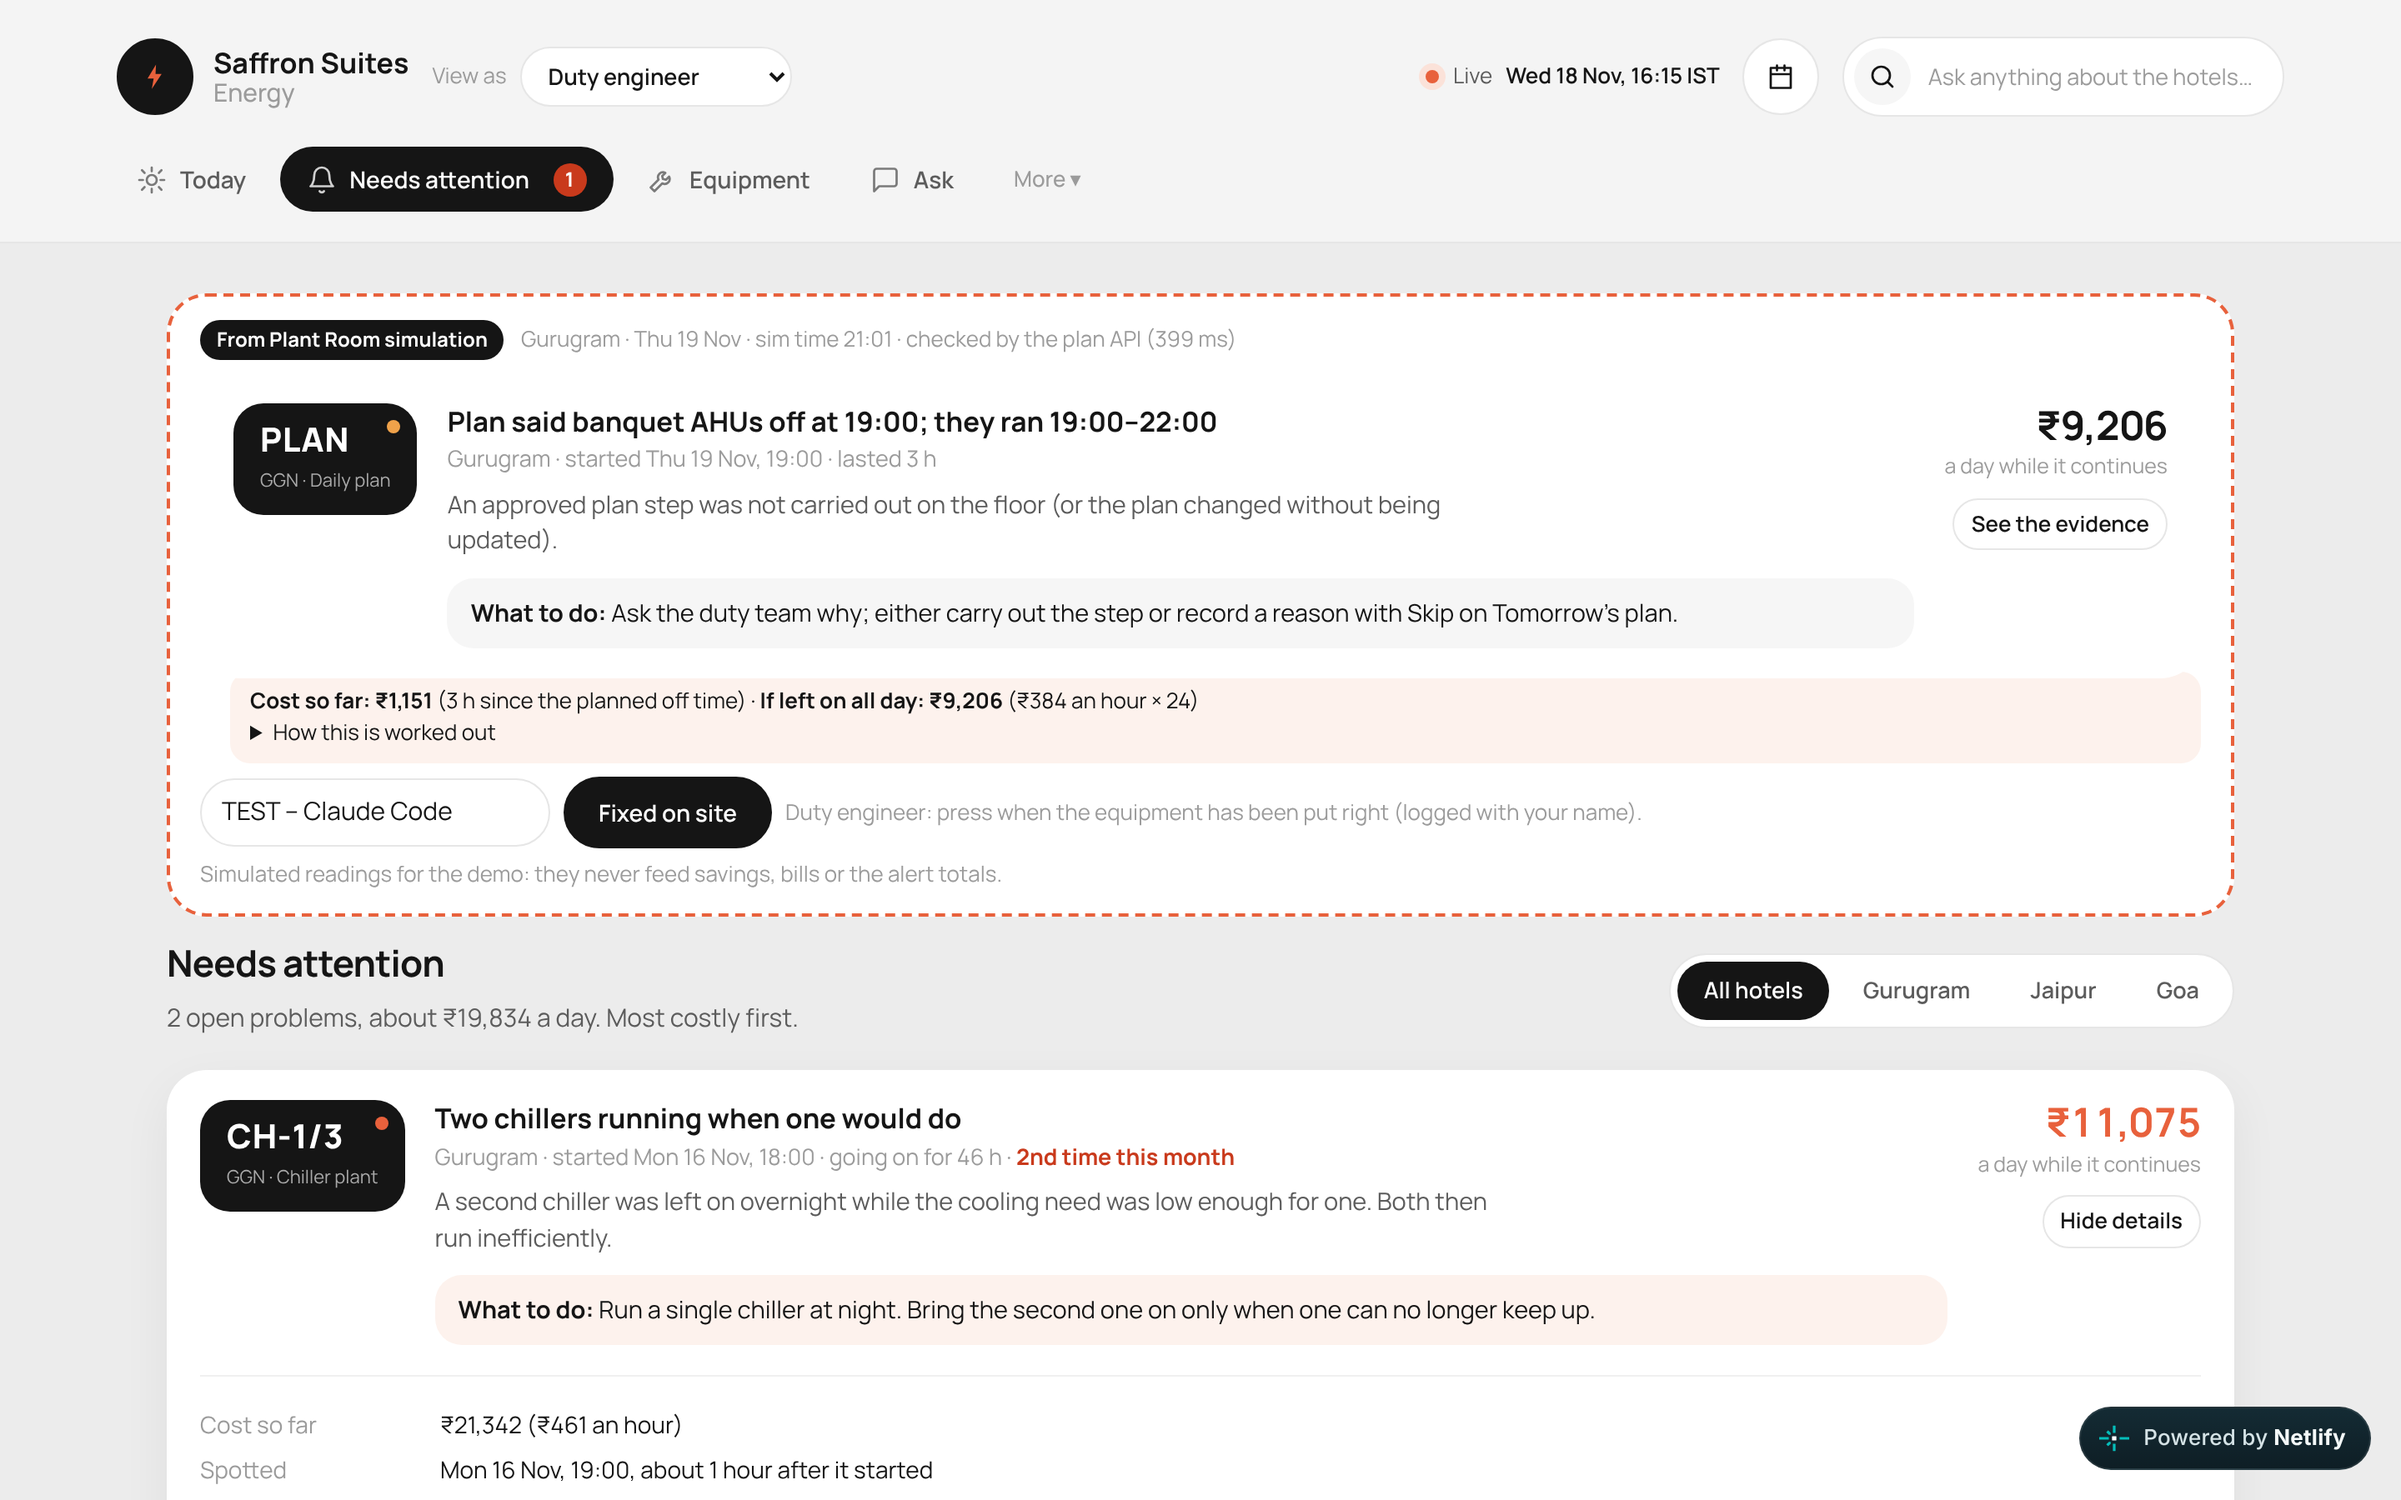
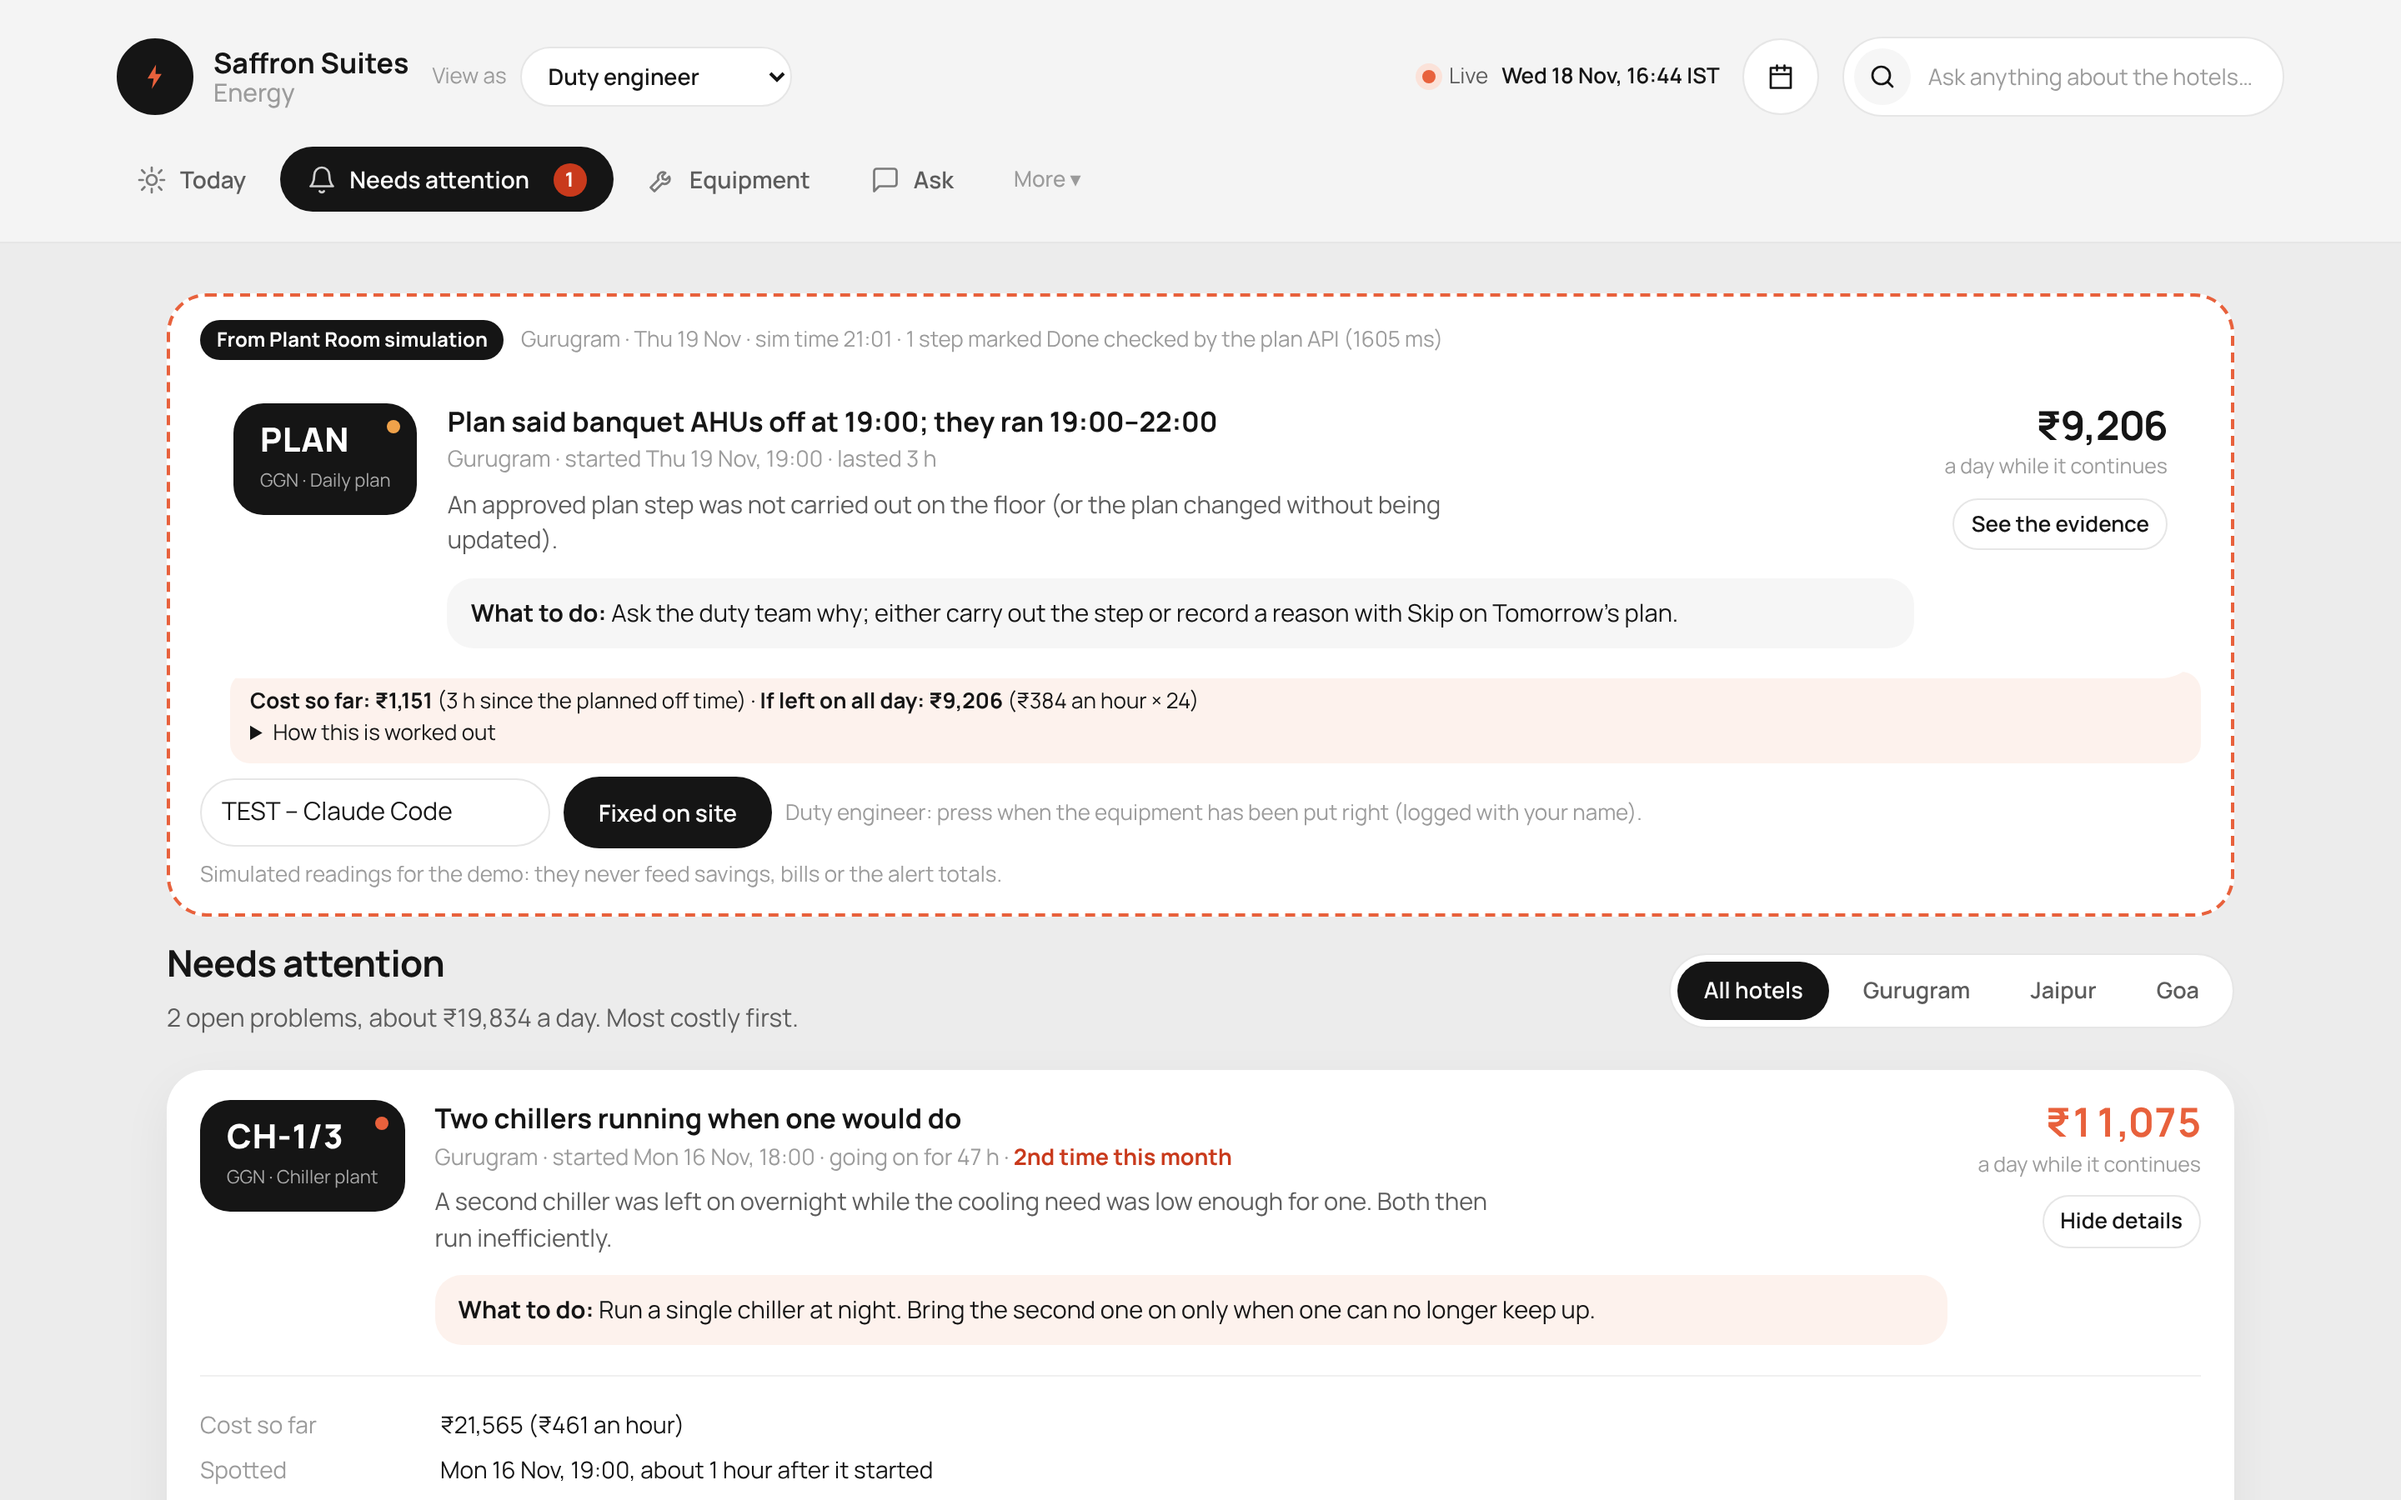
Plant Room alert card: say 'nothing to check yet' (and how to fix it) when no step is marked Done
Before, a plan with approved but not-done steps showed 'checked in the browser (plan API unavailable) · No problems', which read as a
silent failure. Now: 'nothing checked yet' + which step to mark Done; once steps are Done the header says how many were checked and how.

Claude-Session: https://claude.ai/code/session_0137vY3wCTXEnokpydvZZARK

diff --git a/web/src/plant/client.ts b/web/src/plant/client.ts
@@ -62,7 +62,7 @@ export async function postPlant(body: Record<string, unknown>): Promise<{ view: 
 }
 
 // ---- the check: real API first, browser rules as the fallback ----
-export interface PlantCheck { alerts: Alert[]; path: "api" | "local"; ms: number; why?: string; asOf: string }
+export interface PlantCheck { alerts: Alert[]; path: "api" | "local" | "none"; ms: number; why?: string; asOf: string; checked?: number; approved?: number }
 const CHECK_TIMEOUT_MS = 8000;
 const dayCache: Record<string, PlanDay> = {};
 async function planDay(date: string): Promise<PlanDay> {
@@ -78,7 +78,8 @@ export async function checkPlant(v: PlantView, apiBase = "/api"): Promise<PlantC
   // the simulation checks only the steps the duty engineer has marked Done (what the floor committed to); an approved step not yet done
   // stays on habit in the simulator and is not an alert here (real plans are checked against the real meters on Today, unchanged)
   const actions = v.plan.steps.filter((a) => v.plan!.duty?.[a.id]?.event === "done");
-  if (!actions.length) return { alerts: [], path: "local", ms: 0, why: "no step marked done yet", asOf };
+  const approved = v.plan.steps.length;
+  if (!actions.length) return { alerts: [], path: "none", ms: 0, why: "no step marked done yet", asOf, checked: 0, approved };
   const t0 = performance.now();
   let why = "";
   const ctrl = new AbortController();
@@ -90,7 +91,7 @@ export async function checkPlant(v: PlantView, apiBase = "/api"): Promise<PlantC
     if (j && j.meters_source === "simulated") {
       const ms = Math.round(performance.now() - t0);
       console.info(`[plant room] /check path: plan API at ${apiBase} (${ms} ms), ${j.alerts.length} alert(s)`);
-      return { alerts: j.alerts as Alert[], path: "api", ms, asOf };
+      return { alerts: j.alerts as Alert[], path: "api", ms, asOf, checked: actions.length, approved };
     }
     why = j ? "the API answered without checking the simulated readings (older build: redeploy it)" : `the API answered ${res.status}`;
   } catch (e) {
@@ -100,7 +101,7 @@ export async function checkPlant(v: PlantView, apiBase = "/api"): Promise<PlantC
   const local = checkDay(v.date, actions, r.recent, asOf, day.ref, day.tariff, day.pf);
   const ms = Math.round(performance.now() - t0);
   console.info(`[plant room] /check path: local rules in the browser (${why}; ${ms} ms), ${local.alerts.length} alert(s)`);
-  return { alerts: local.alerts, path: "local", ms, why, asOf };
+  return { alerts: local.alerts, path: "local", ms, why, asOf, checked: actions.length, approved };
 }
 
 const addDay = (d: string, k: number) => { const x = new Date(`${d}T00:00:00Z`); x.setUTCDate(x.getUTCDate() + k); return x.toISOString().slice(0, 10); };

diff --git a/web/src/plant/PlantAlerts.tsx b/web/src/plant/PlantAlerts.tsx
@@ -30,9 +30,16 @@ export default function PlantAlerts() {
     <section className="card plant-link" data-testid="plant-alerts" aria-live="polite">
       <div className="plant-link-head">
         <span className="plant-tag">From Plant Room simulation</span>
-        <span className="small muted">Gurugram · {label(view.date)}{sim ? ` · sim time ${sim}` : ""} · checked {check ? (check.path === "api" ? `by the plan API (${check.ms} ms)` : "in the browser (plan API unavailable)") : "…"}</span>
+        <span className="small muted">Gurugram · {label(view.date)}{sim ? ` · sim time ${sim}` : ""} · {!check ? "checking…" : check.path === "none" ? "nothing checked yet"
+          : `${check.checked} step${check.checked === 1 ? "" : "s"} marked Done checked ${check.path === "api" ? `by the plan API (${check.ms} ms)` : "in the browser (plan API unavailable)"}`}</span>
       </div>
-      {check && check.alerts.length === 0 && <p className="small" style={{ margin: "6px 0 0" }} data-testid="plant-no-alert">No problems in the simulated readings: the plant follows the approved plan.</p>}
+      {check && check.path === "none" && (
+        <p className="small" style={{ margin: "6px 0 0" }} data-testid="plant-nothing-done">
+          <strong>Nothing to check yet:</strong> {check.approved ? `${check.approved} approved step${check.approved === 1 ? " is" : "s are"} not marked Done.` : "the plan has no approved steps."}{" "}
+          The simulator checks only steps the duty engineer has marked Done (Tomorrow's plan → "Duty engineer: mark approved steps done"). Mark the banquet AHU step done, then inject Fault 1 on /plant.
+        </p>
+      )}
+      {check && check.path !== "none" && check.alerts.length === 0 && <p className="small" style={{ margin: "6px 0 0" }} data-testid="plant-no-alert">No problems in the simulated readings: the steps marked Done are being followed.</p>}
       {check?.alerts.map((a) => (
         <div key={a.id} className="plant-alert" data-testid="plant-alert">
           {/* ₹ a day while it continues = the check's ₹ per deviating hour × 24 (the cost so far is in the card's details) */}
